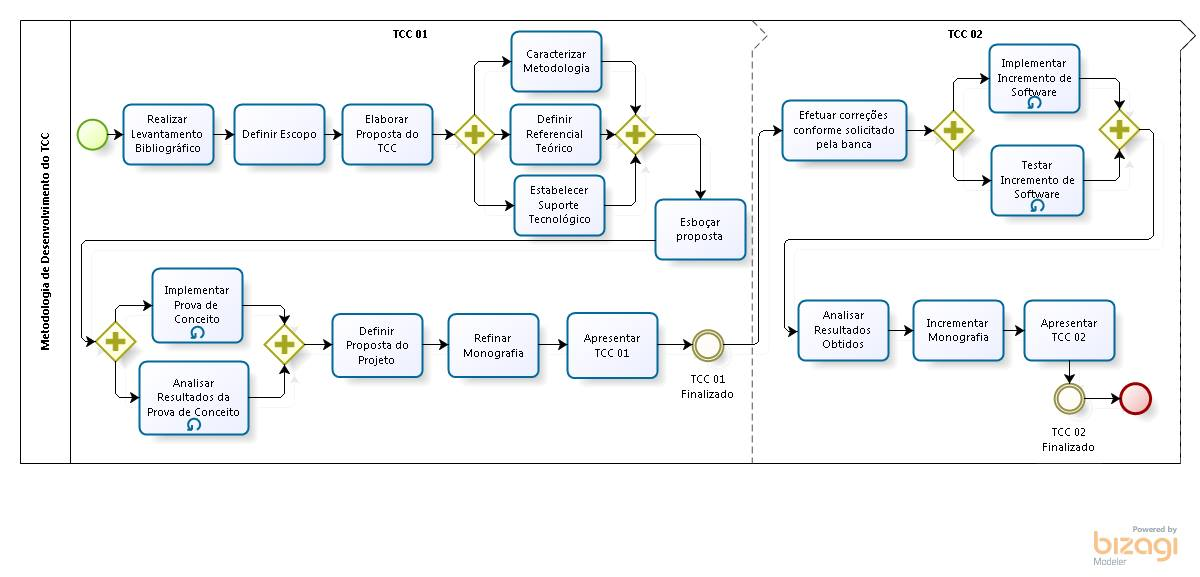
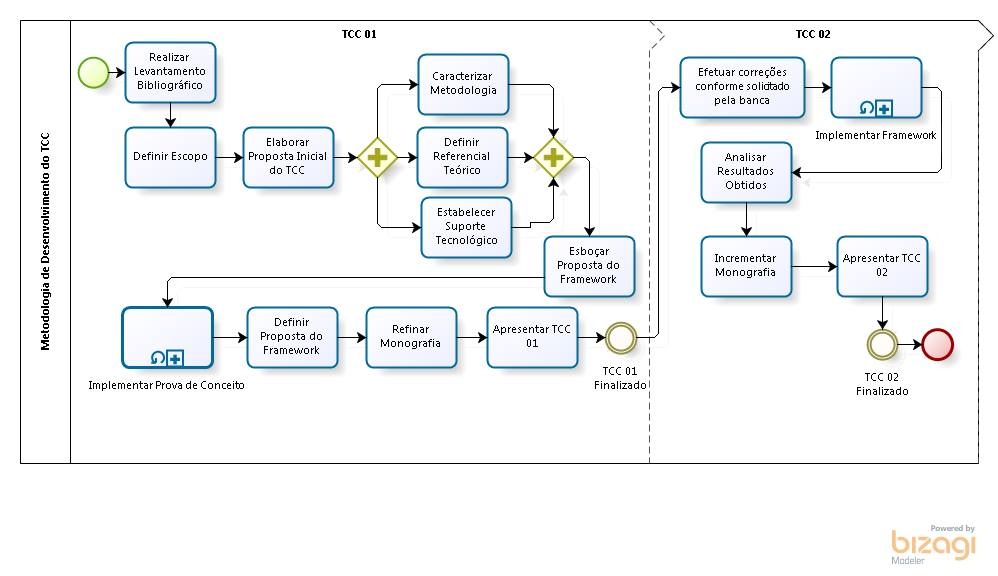
Adiciona novas imagens à Metodologia

diff --git a/editaveis/metodologia.tex b/editaveis/metodologia.tex
@@ -57,9 +57,9 @@ Utilizando o estudo descrito anteriormente como base, foi definido a metodologia
  	Utilizando as metodologias definidas para a execução do Trabalho de Conclusão de Curso 01 e 02, foi estabelecido um fluxo de atividades que possibilitará o alcance dos objetivos do projeto.
  	
  \par
- \indent Inicialmente, foi realizado estudos sobre a temática escolhida. Em seguida, foi determinado o escopo do projeto e a proposta inicial resumindo os objetivos, justificativa, cronograma preliminar, entre outros aspectos introdutórios que guiaram as atividades seguintes. O estudo e definição  da metodologia utilizada, bem como o do suporte tecnológico ocorreram em paralelo com a pesquisa e documentação do referencial teórico base para o desenvolvimento do \textit{framework} proposto. Após essas definições, foi realizado a primeira versão detalhada da proposta do software a ser implementado. Definiu-se também uma prova de conceito, de forma a auxiliar o refinamento da proposta. Por fim, houve a finalização da monografia com as atualizações que se fizeram necessárias. A finalização do Trabalho Conclusão de Curso 01 ocorrerá após a primeira apresentação para a banca avaliadora.
+ \indent Inicialmente, foi realizado estudos sobre a temática escolhida. Em seguida, foi determinado o escopo do projeto e a proposta inicial resumindo os objetivos, justificativa, cronograma preliminar, entre outros aspectos introdutórios que guiaram as atividades seguintes. O estudo e definição  da metodologia utilizada, bem como o do suporte tecnológico ocorreram em paralelo com a pesquisa e documentação do referencial teórico base para o desenvolvimento do \textit{framework} proposto. Após essas definições, foi realizado a primeira versão detalhada da proposta do software a ser implementado. Definiu-se também uma prova de conceito, de forma a auxiliar o refinamento da proposta. Em seguida, ocorreu a implementação da prova de conceito utilizando os ciclos de pesqusa-ação e sprints. Com os resultados, houve a finalização da monografia com as atualizações que se fizeram necessárias. A finalização do Trabalho Conclusão de Curso 01 ocorrerá após a primeira apresentação para a banca avaliadora.
  \par
- \indent O Trabalho de Conclusão de Curso 02 iniciará com as correções e refinamentos solicitados na apresentação. Em seguida,  executar-se-á o desenvolvimento do \textit{framework} proposto, utilizando pesquisa-ação e adaptação do Scrum como detalhados nas seções \ref{Metodologia de Pesquisa} e  \ref{Metodologia de Desenvolvimento do Software}, respectivamente. Será efetuada uma análise dos resultados obtidos, verificando se os objetivos estabelecidos no início do projeto foram satisfatoriamente atendidos. Por fim, será adicionado à monografia um relato do que foi executado junto com a análise de resultados.  A apresentação do Trabalho de Conclusão de Curso 02 representará o fim do projeto.
+ \indent O Trabalho de Conclusão de Curso 02 iniciará com as correções e refinamentos solicitados na apresentação. Em seguida,  executar-se-á o desenvolvimento do \textit{framework} proposto, utilizando pesquisa-ação e adaptação do Scrum. Será efetuada uma análise dos resultados obtidos, verificando se os objetivos estabelecidos no início do projeto foram satisfatoriamente atendidos. Por fim, será adicionado à monografia um relato do que foi executado junto com a análise de resultados.  A apresentação do Trabalho de Conclusão de Curso 02 representará o fim do projeto.
  	
   \begin{figure}[h]
     \centering
@@ -67,6 +67,19 @@ Utilizando o estudo descrito anteriormente como base, foi definido a metodologia
     \caption{Fluxo de Atividades do TCC}
     \label{fig:processo}
   \end{figure}
+
+\par 
+\indent A figura \ref{fig:processo} representa o fluxo de atividades utilizado no Trabalho de Conclusão de Curso como descrito anteriormente.  
+  
+    \begin{figure}[h]
+    \centering
+    \includegraphics[width=\textwidth]{figuras/ProcessoInterno.jpg}
+    \caption{Fluxo de Atividades da Implementação da Solução de Software}
+    \label{fig:processointerno}
+  \end{figure}
+
+\par 
+\indent A figura \ref{fig:processointerno} demonstra a adaptação do Scrum e pesquisa-ação no desenvolvimento do \textit{framework}. 
  
  \subsection{Cronograma}
  
@@ -74,14 +87,14 @@ Utilizando o estudo descrito anteriormente como base, foi definido a metodologia
 	  
   \begin{figure}[h]
     \centering
-    \includegraphics[width=\textwidth]{figuras/cronograma1.png}
+    \includegraphics[width=\textwidth]{figuras/cronograma1.jpg}
     \caption{Cronograma para o TCC1}
     \label{fig:cronograma1}
   \end{figure}
   
   \begin{figure}[h]
     \centering
-    \includegraphics[width=\textwidth]{figuras/cronograma2.png}
+    \includegraphics[width=\textwidth]{figuras/cronograma2.jpg}
     \caption{Cronograma para o TCC2}
     \label{fig:cronograma2}
   \end{figure}
